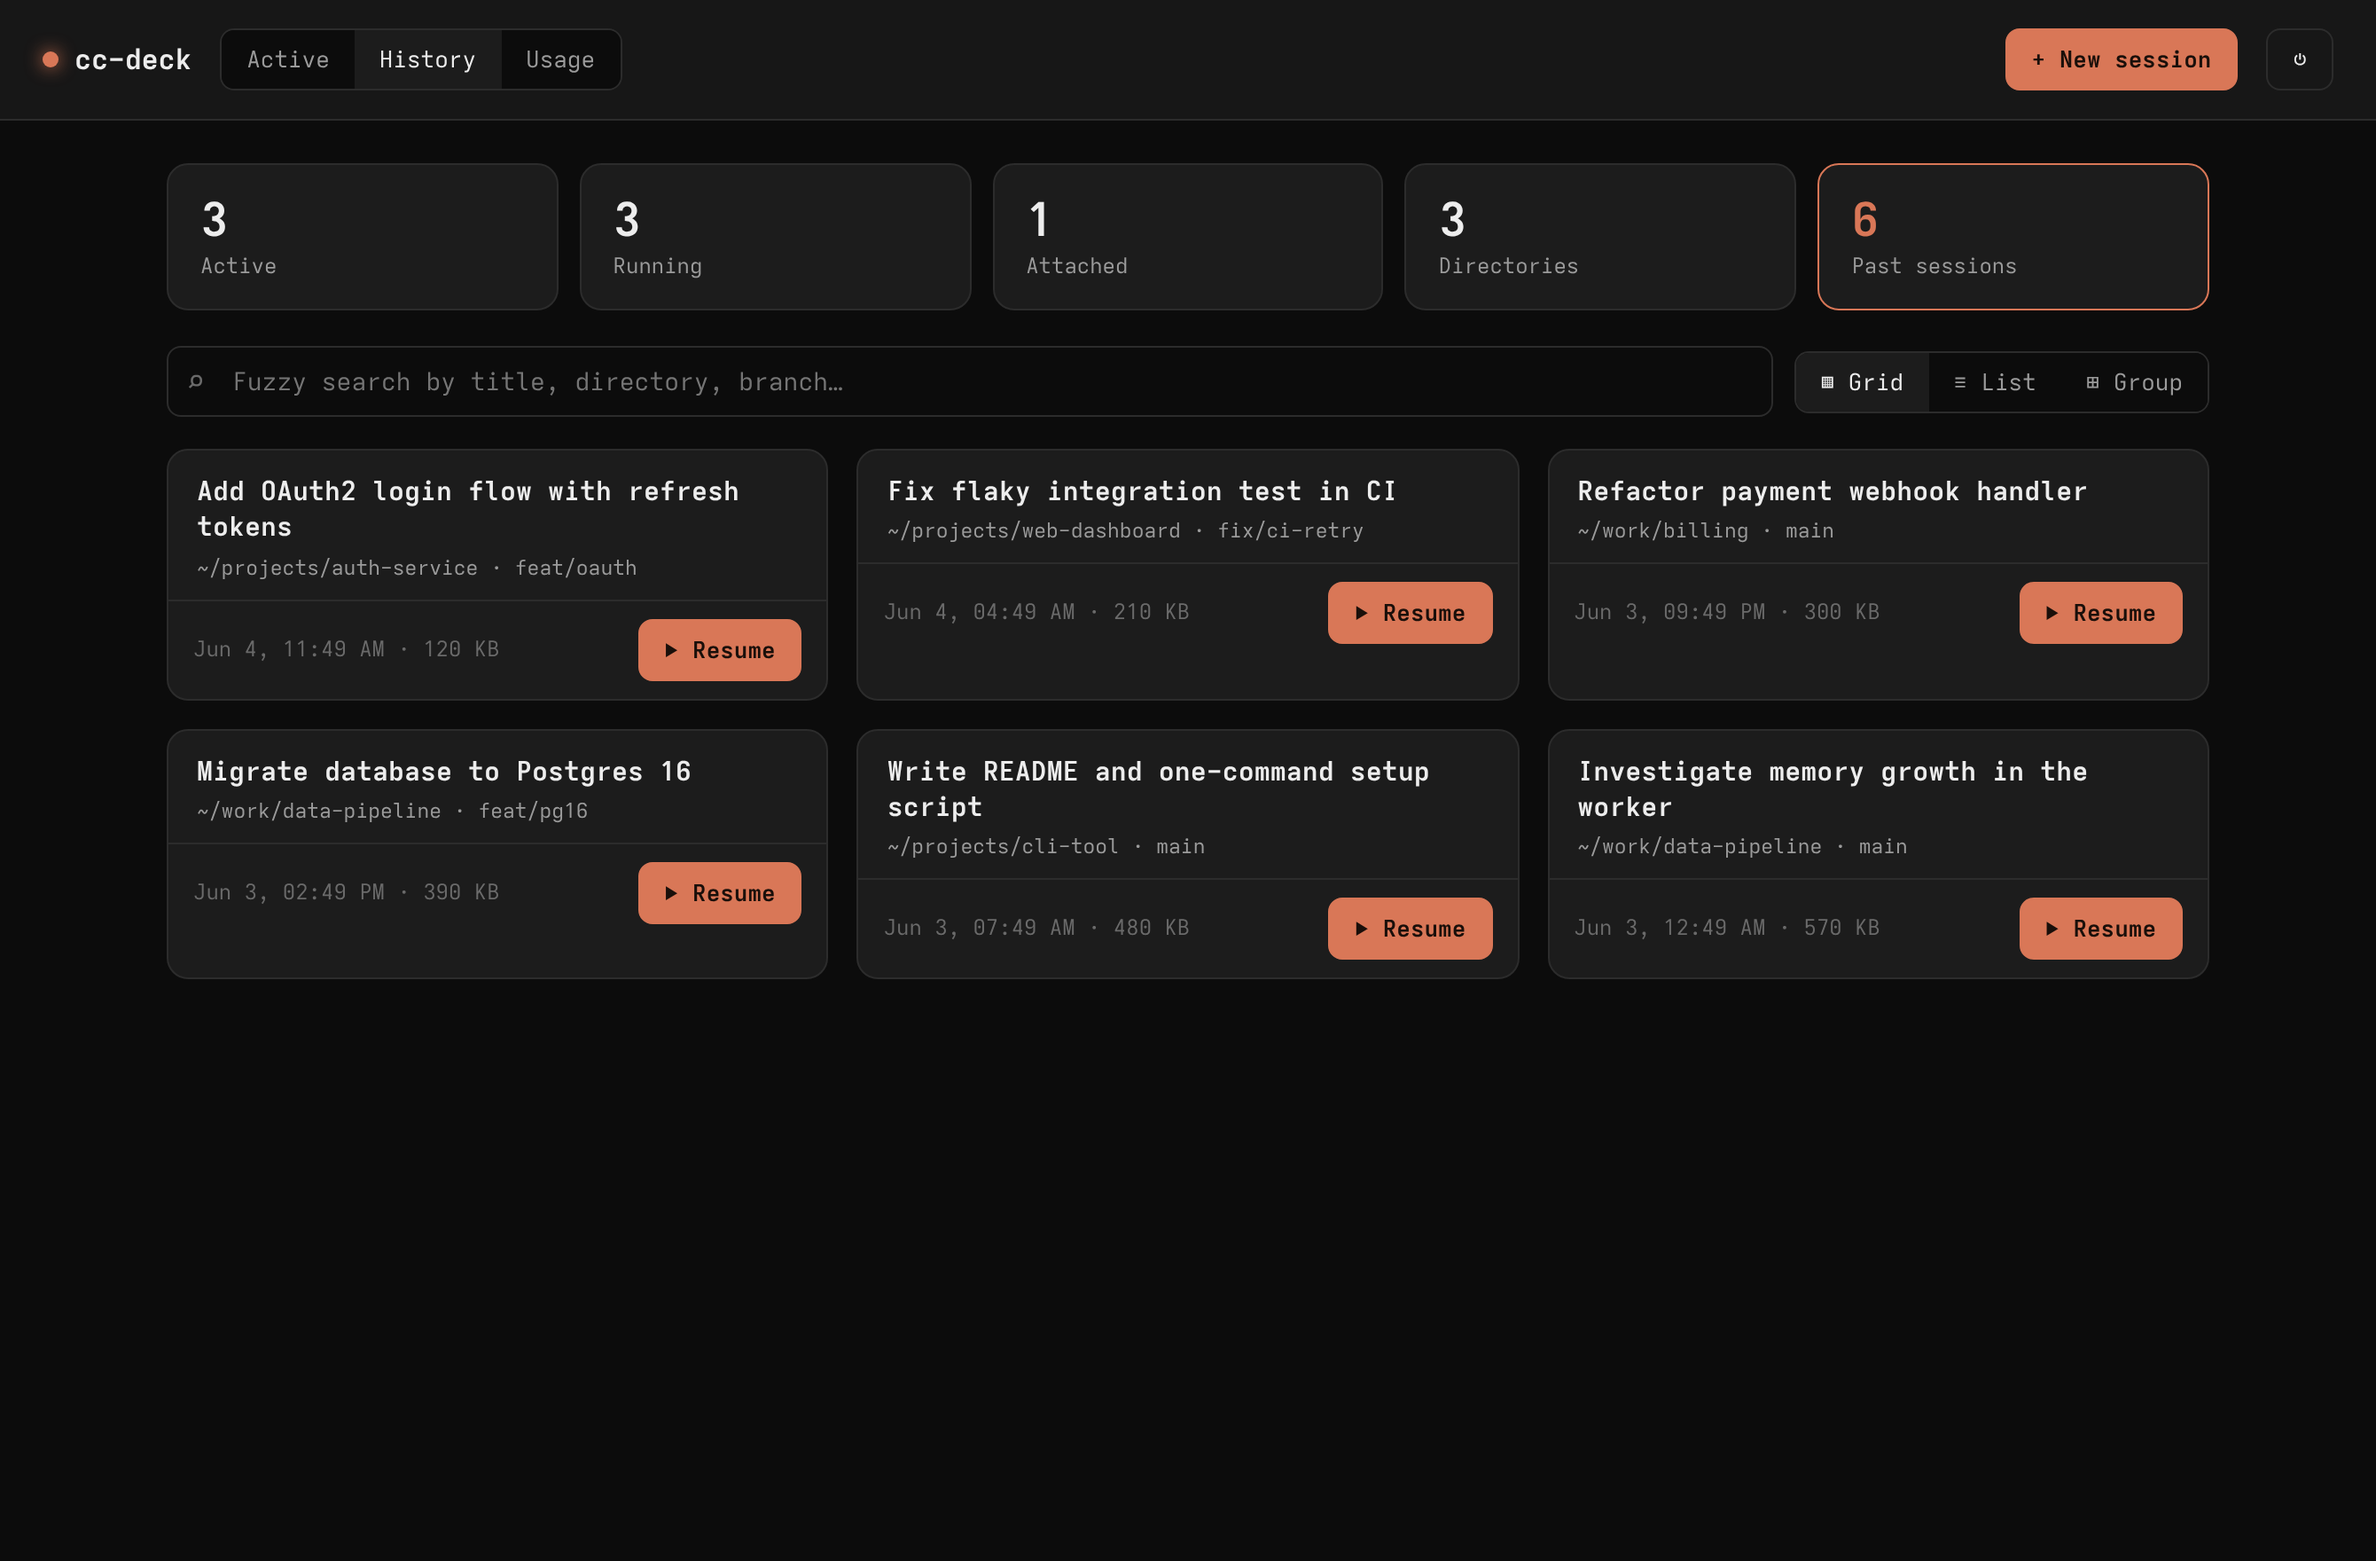
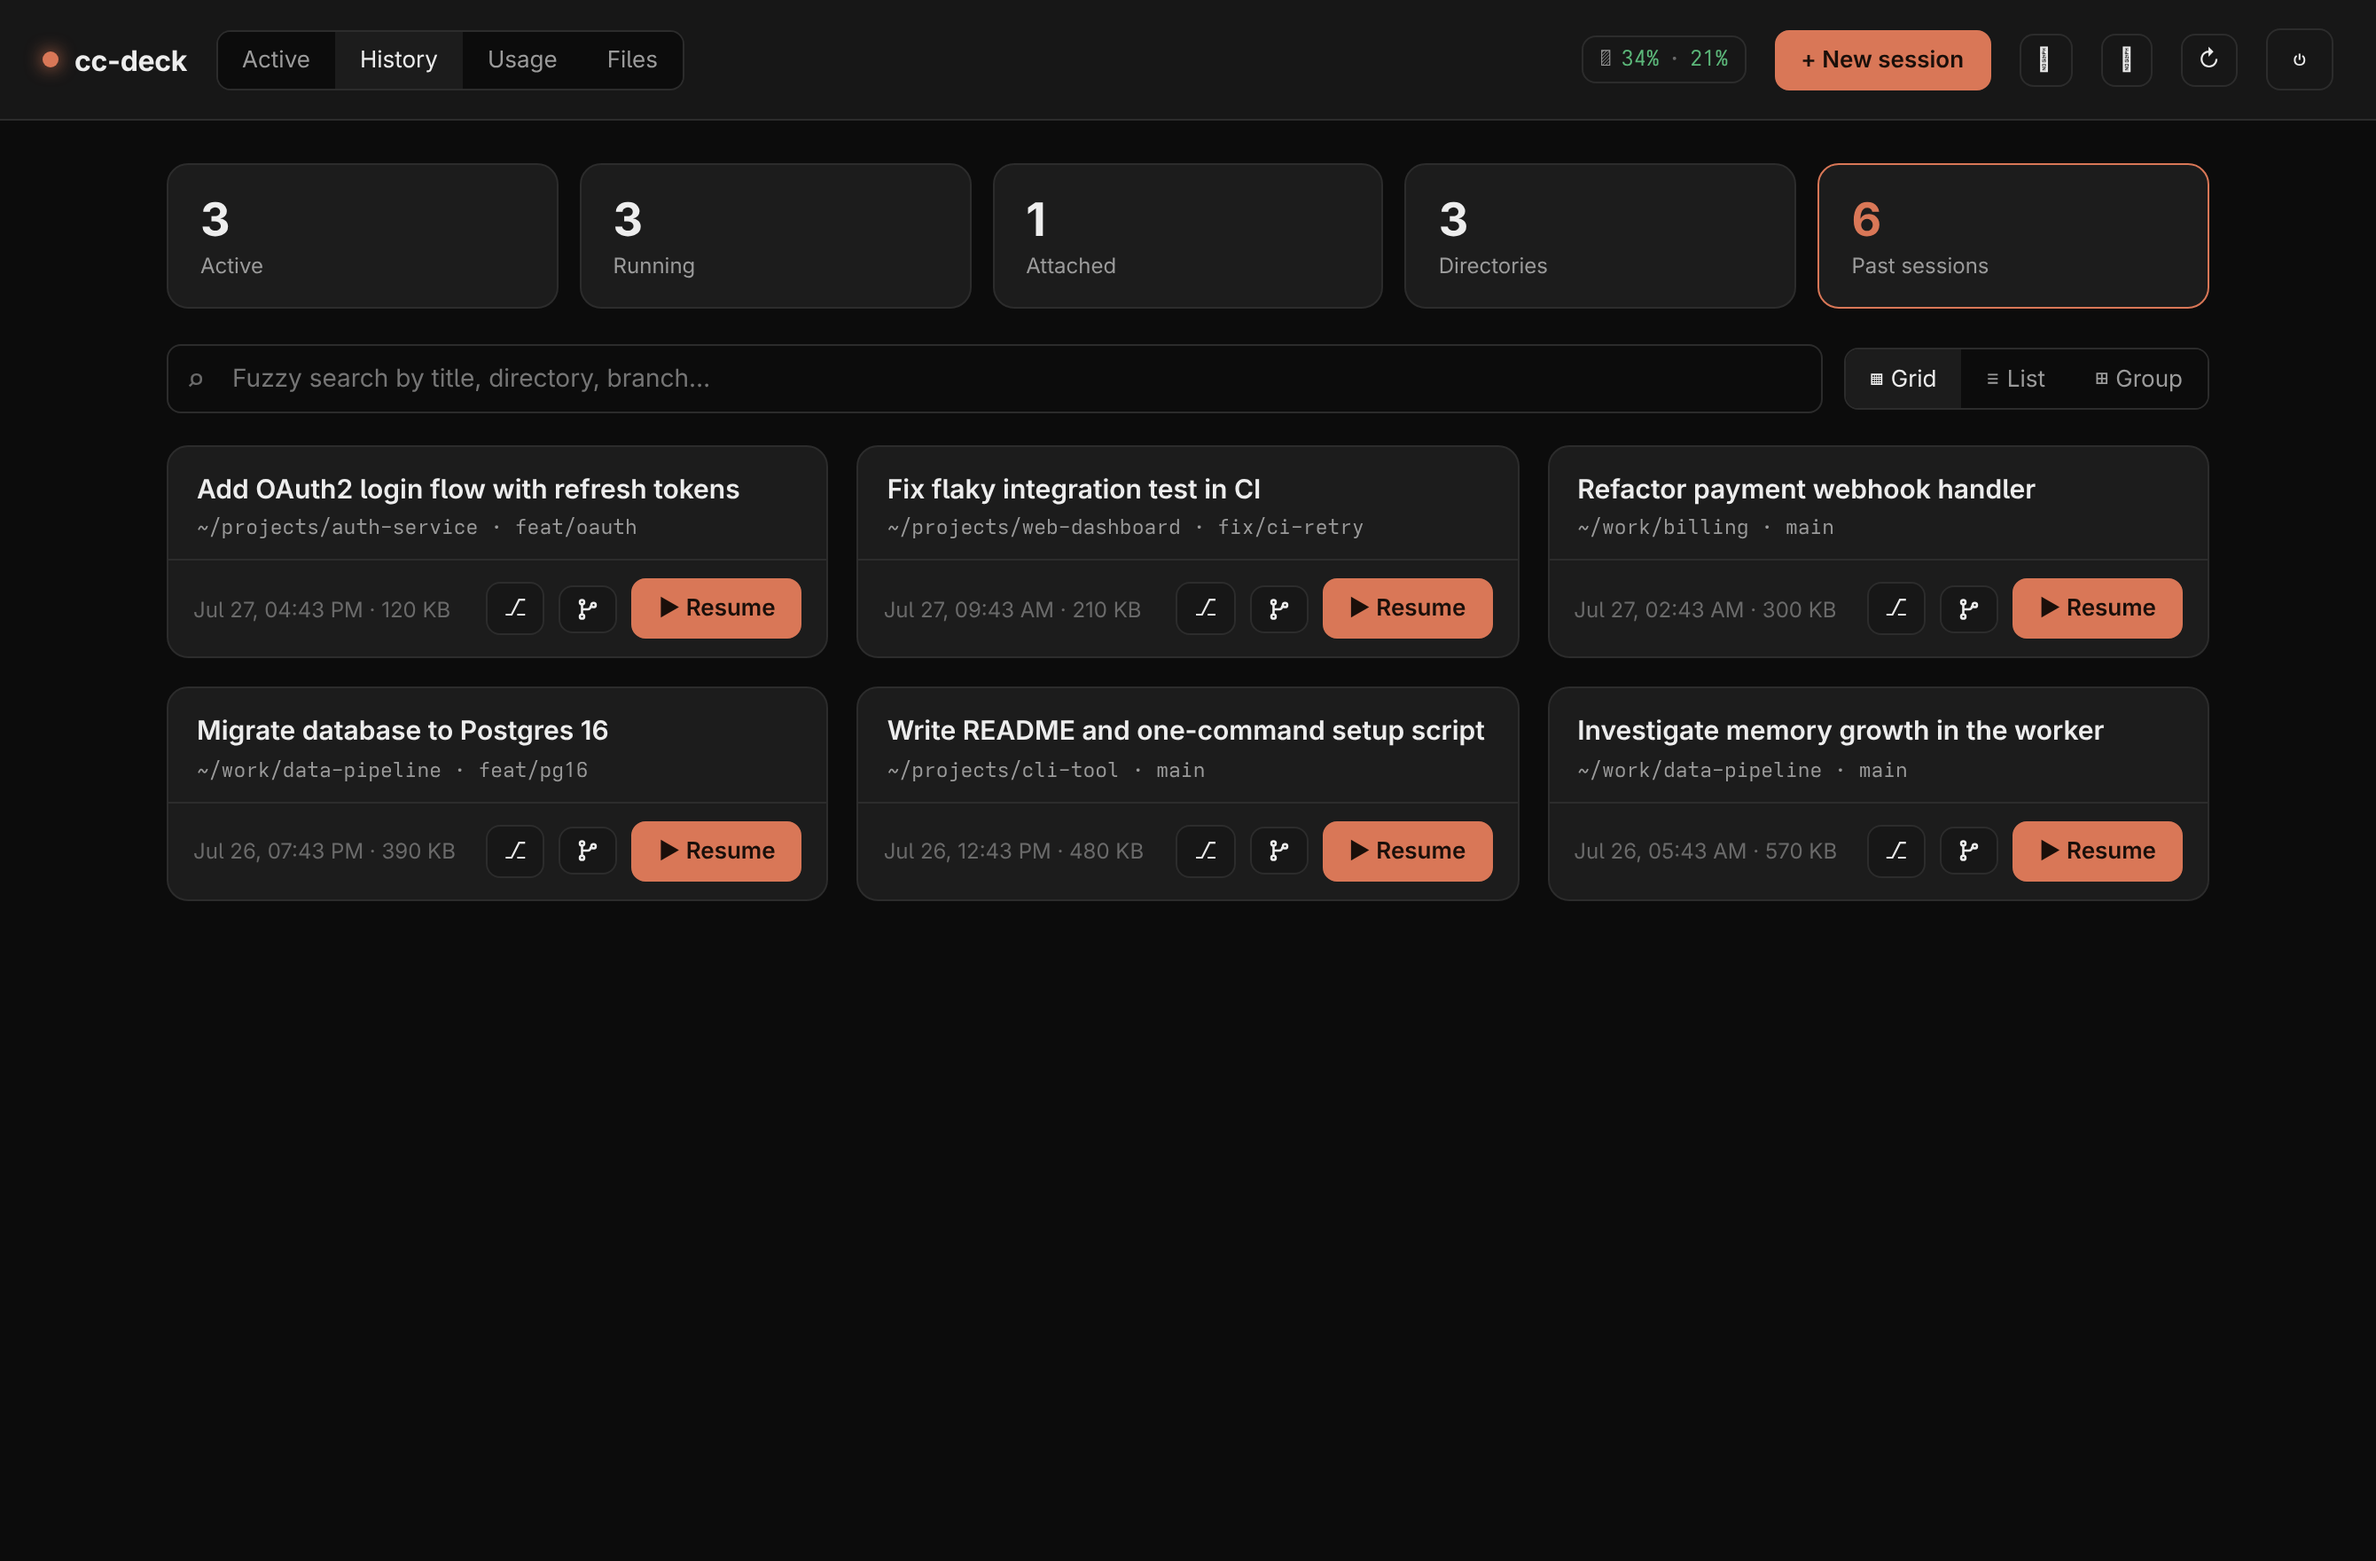
Add community health files + refresh screenshots
- CONTRIBUTING.md (dev setup, code style, verify/PR conventions), SECURITY.md
  (private vulnerability reporting + deployment scope), CODE_OF_CONDUCT.md
  (Contributor Covenant 2.1).
- .github/ issue templates (bug/feature) + chooser config routing security
  reports privately, and a PR template.
- README: add a Contributing section linking the above.
- Regenerate docs screenshots (demo mode, fabricated data) so they reflect the
  current UI (burn pill, Files tab).

Claude-Session: https://claude.ai/code/session_01HwxdXzb8PoBSgtiZVfA2hU

diff --git a/CONTRIBUTING.md b/CONTRIBUTING.md
@@ -1,0 +1,71 @@
+# Contributing to cc-deck
+
+Thanks for your interest! cc-deck is a small, self-hosted app — contributions that keep it
+lean and dependency-light are the most welcome.
+
+## Getting set up
+
+```bash
+git clone https://github.com/cyberneel/cc-deck && cd cc-deck
+npm install
+cp .env.example .env      # set CCDECK_PASSWORD and a random CCDECK_SECRET
+npm run dev               # esbuild --watch + node --watch (rebuilds + restarts on change)
+```
+
+`npm run dev` watches both the client bundle and the server. For a one-off build use
+`npm run build`; to run the server without watching use `npm start`. It listens on
+`127.0.0.1:8787` by default.
+
+You'll need **Node ≥ 18**, **tmux**, and the **Claude CLI** on your `PATH` (or point
+`CCDECK_LAUNCH` at another command). A C toolchain is needed once to build `node-pty`.
+
+## How it's laid out
+
+See the **Project layout** section of the [README](README.md#project-layout). In short:
+`src/*.js` is the Fastify server + helpers, `src/client/*` is the browser code (bundled by
+esbuild into `public/`), and `public/*.html` are the pages.
+
+**After editing anything in `src/client/`, rebuild** (`npm run build`) — the served bundle is
+generated, and stale bundles are the most common "my change didn't show up" gotcha. The
+`public/*.js` bundles are gitignored; don't commit them.
+
+## Code style
+
+- **Plain ESM JavaScript, no TypeScript, no build-time framework.** Match the style of the
+  file you're editing — it's a small codebase and consistency matters more than preference.
+- **No shell for subprocess calls.** Every tmux/pty/CLI invocation uses `execFile`/`spawn`
+  with an argument array — never string interpolation into a shell. Keep it that way.
+- **Validate at trust boundaries.** Session names, resume IDs, and any path must be checked
+  (names match `^ccdeck-[A-Za-z0-9]+$`, resume IDs are UUIDs, paths must resolve under
+  `CCDECK_ROOTS`). Don't loosen these.
+- **Lean on the standard library and already-installed deps.** Please don't add a dependency
+  for something a few lines can do; new runtime deps need a good reason.
+- Keep diffs focused — one concern per PR, and avoid unrelated reformatting.
+
+## Testing / verifying a change
+
+There's no test framework; cc-deck is verified by running it. For a change, please:
+
+1. `npm run build && npm start` (or `npm run dev`) and exercise the affected feature in the
+   browser.
+2. For anything touching sessions, confirm launch / attach / resume / kill still work and that
+   sessions survive a `systemctl --user restart cc-deck` (the `KillMode=process` guarantee).
+3. Note in the PR what you did to verify. If you add non-trivial logic, a small runnable check
+   is appreciated.
+
+## Submitting a change
+
+1. Branch off `main`.
+2. Write a clear commit message: a short imperative summary line, then a body explaining the
+   *why* if it isn't obvious.
+3. Open a PR describing the change and how you verified it. Screenshots help for UI changes
+   (regenerate the README set with `node scripts/screenshots.mjs` — see the script header; it
+   runs in demo mode with fabricated data).
+
+## Security
+
+Please **don't** open a public issue for a vulnerability — see [SECURITY.md](SECURITY.md) for
+private reporting.
+
+By contributing, you agree your contributions are licensed under the project's
+[Apache-2.0](LICENSE) license.

diff --git a/CODE_OF_CONDUCT.md b/CODE_OF_CONDUCT.md
@@ -1,0 +1,65 @@
+# Contributor Covenant Code of Conduct
+
+## Our Pledge
+
+We as members, contributors, and leaders pledge to make participation in our community a
+harassment-free experience for everyone, regardless of age, body size, visible or invisible
+disability, ethnicity, sex characteristics, gender identity and expression, level of experience,
+education, socio-economic status, nationality, personal appearance, race, religion, or sexual
+identity and orientation.
+
+We pledge to act and interact in ways that contribute to an open, welcoming, diverse, inclusive,
+and healthy community.
+
+## Our Standards
+
+Examples of behavior that contributes to a positive environment for our community include:
+
+- Demonstrating empathy and kindness toward other people
+- Being respectful of differing opinions, viewpoints, and experiences
+- Giving and gracefully accepting constructive feedback
+- Accepting responsibility and apologizing to those affected by our mistakes, and learning from
+  the experience
+- Focusing on what is best not just for us as individuals, but for the overall community
+
+Examples of unacceptable behavior include:
+
+- The use of sexualized language or imagery, and sexual attention or advances of any kind
+- Trolling, insulting or derogatory comments, and personal or political attacks
+- Public or private harassment
+- Publishing others' private information, such as a physical or email address, without their
+  explicit permission
+- Other conduct which could reasonably be considered inappropriate in a professional setting
+
+## Enforcement Responsibilities
+
+Community leaders are responsible for clarifying and enforcing our standards of acceptable
+behavior and will take appropriate and fair corrective action in response to any behavior that
+they deem inappropriate, threatening, offensive, or harmful.
+
+Community leaders have the right and responsibility to remove, edit, or reject comments, commits,
+code, wiki edits, issues, and other contributions that are not aligned to this Code of Conduct,
+and will communicate reasons for moderation decisions when appropriate.
+
+## Scope
+
+This Code of Conduct applies within all community spaces, and also applies when an individual is
+officially representing the community in public spaces.
+
+## Enforcement
+
+Instances of abusive, harassing, or otherwise unacceptable behavior may be reported to the
+project maintainer privately through GitHub — via a
+[private security advisory](https://github.com/cyberneel/cc-deck/security/advisories/new) or by
+contacting [@cyberneel](https://github.com/cyberneel). All complaints will be reviewed and
+investigated promptly and fairly.
+
+All community leaders are obligated to respect the privacy and security of the reporter of any
+incident.
+
+## Attribution
+
+This Code of Conduct is adapted from the [Contributor Covenant][homepage], version 2.1, available
+at <https://www.contributor-covenant.org/version/2/1/code_of_conduct.html>.
+
+[homepage]: https://www.contributor-covenant.org

diff --git a/SECURITY.md b/SECURITY.md
@@ -1,0 +1,34 @@
+# Security Policy
+
+## Reporting a vulnerability
+
+Please report security issues **privately** — do not open a public GitHub issue.
+
+Use GitHub's **[private vulnerability reporting](https://github.com/cyberneel/cc-deck/security/advisories/new)**
+("Report a vulnerability" under the repository's **Security** tab). Include:
+
+- what the issue is and its impact,
+- steps to reproduce (or a proof of concept),
+- affected version / commit.
+
+You'll get an acknowledgement as soon as the maintainer sees it. Since this is a small
+self-hosted project maintained in spare time, please allow a reasonable window for a fix before
+any public disclosure.
+
+## Scope & deployment notes
+
+cc-deck is designed to run **behind a private boundary**, not open on the internet:
+
+- Keep `CCDECK_BIND=127.0.0.1` so the raw, unauthenticated port is never exposed on the network.
+  Reach it through Tailscale or a Cloudflare Tunnel + Access, as described in the README.
+- It uses a **single shared password** (no multi-user accounts) — layer Cloudflare Access (or
+  similar) in front if you need per-identity control.
+- Treat `CCDECK_MCP_TOKEN` like a password: a holder of the static bearer can **create and drive
+  sessions** via MCP. Use `CCDECK_MCP_TOKEN_READONLY` for callers that should only read + leave
+  notes.
+- cc-deck can launch and attach to real shells/`claude` processes under `CCDECK_ROOTS`. Anyone
+  who can authenticate effectively has that access — scope `CCDECK_ROOTS` accordingly.
+
+Reports about running cc-deck in a configuration it explicitly warns against (e.g. binding to a
+public interface without an auth layer) are still welcome, but hardening guidance may be the
+answer rather than a code change.

diff --git a/.github/PULL_REQUEST_TEMPLATE.md b/.github/PULL_REQUEST_TEMPLATE.md
@@ -1,0 +1,17 @@
+<!-- Thanks for contributing! Keep PRs focused on one concern. -->
+
+## What & why
+
+<!-- What does this change do, and why? Link any related issue (Fixes #123). -->
+
+## How I verified it
+
+<!-- e.g. built + ran, exercised the affected feature, confirmed sessions survive a restart. -->
+
+## Checklist
+
+- [ ] Rebuilt the client (`npm run build`) if I touched `src/client/**`
+- [ ] No new runtime dependency (or explained why one is needed)
+- [ ] Subprocess calls still use `execFile`/`spawn` with arg arrays (no shell)
+- [ ] Trust-boundary validation (session names / resume IDs / paths under roots) intact
+- [ ] Screenshots updated if this changes the UI (`node scripts/screenshots.mjs`, demo mode)

diff --git a/.github/ISSUE_TEMPLATE/bug_report.md b/.github/ISSUE_TEMPLATE/bug_report.md
@@ -1,0 +1,30 @@
+---
+name: Bug report
+about: Something isn't working
+title: ''
+labels: bug
+assignees: ''
+---
+
+**What happened**
+A clear description of the bug.
+
+**Expected**
+What you expected instead.
+
+**Steps to reproduce**
+1.
+2.
+3.
+
+**Environment**
+- cc-deck version / commit:
+- OS + version:
+- Node version (`node -v`):
+- tmux version (`tmux -V`):
+- How it's exposed (localhost / Tailscale / Cloudflare):
+- Browser (if a UI issue):
+
+**Logs**
+Relevant output from `journalctl --user -u cc-deck` or the terminal. **Redact any tokens,
+passwords, or session content.**

diff --git a/README.md b/README.md
@@ -326,6 +326,13 @@ scripts/           snapshot CLI + screenshot generator
 setup.sh           one-command installer
 ```
 
+## Contributing
+
+Issues and PRs welcome — cc-deck aims to stay small and dependency-light. See
+[CONTRIBUTING.md](CONTRIBUTING.md) for dev setup and conventions, and the
+[Code of Conduct](CODE_OF_CONDUCT.md). Please report security issues privately per
+[SECURITY.md](SECURITY.md), not as a public issue.
+
 ## License
 
 [Apache-2.0](LICENSE).

diff --git a/.github/ISSUE_TEMPLATE/feature_request.md b/.github/ISSUE_TEMPLATE/feature_request.md
@@ -1,0 +1,19 @@
+---
+name: Feature request
+about: Suggest an idea
+title: ''
+labels: enhancement
+assignees: ''
+---
+
+**The problem**
+What are you trying to do that cc-deck makes hard or impossible today?
+
+**Proposed solution**
+What you'd like to see. Keep in mind cc-deck aims to stay small and dependency-light.
+
+**Alternatives considered**
+Anything you've tried or ruled out.
+
+**Additional context**
+Screenshots, links, or examples.
